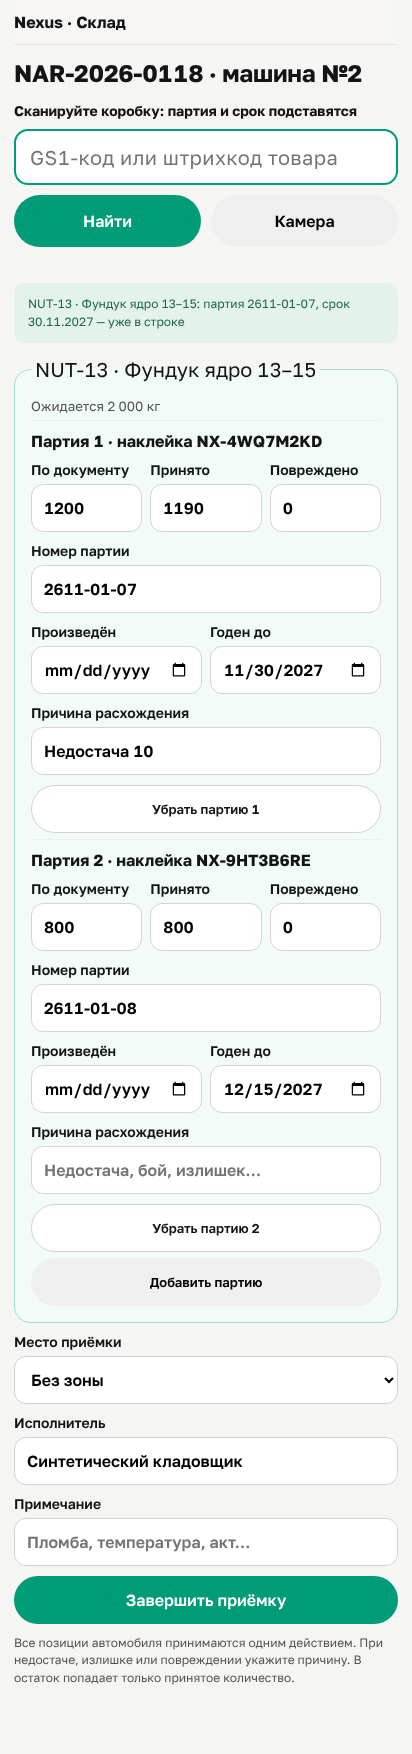
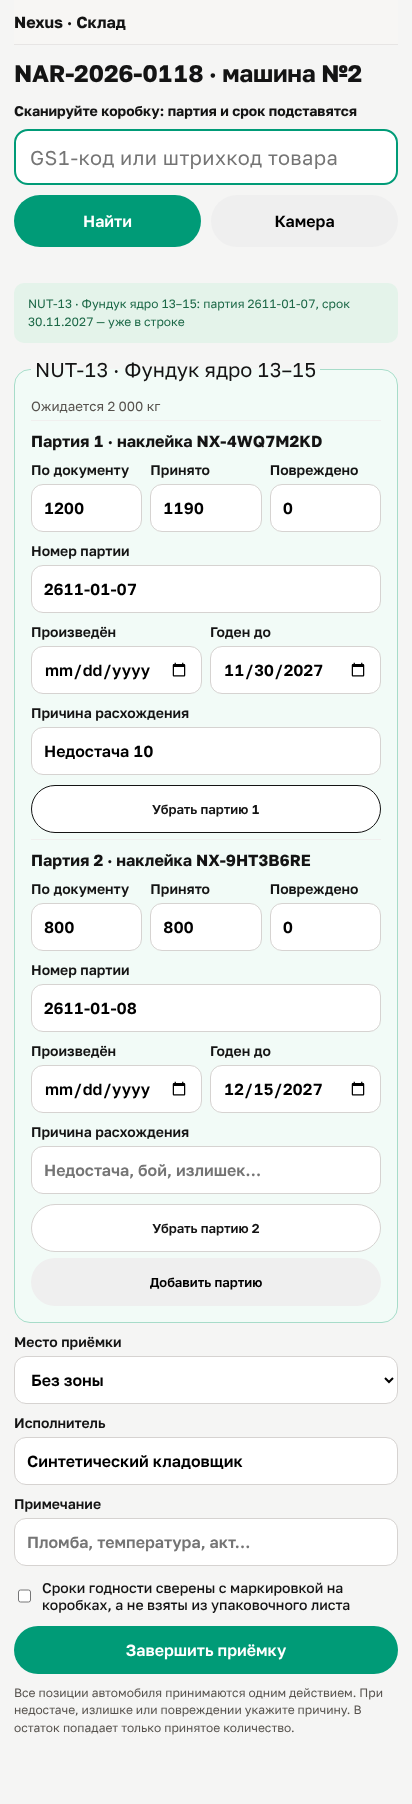
Приёмка с партиями из листа — только с отметкой «Сроки сверены»
Решение владельца от 28.11.2026: срок из упаковочного листа не принимается
не глядя. Машина, у позиций которой есть партии по листу, принимается только
через receive_shipment_transport_checked с отметкой «Сроки годности сверены с
маркировкой на коробках»; без неё — и в обход формы, прежней функцией —
приёмку отклоняет триггер в базе. Кто поставил отметку и когда, записано у
партий листа и видно на странице «Партии и наклейки».

Claude-Session: https://claude.ai/code/session_01EU8RivHSwKM7VpFoboc5U7

diff --git a/src/components/mobile-receive-form.tsx b/src/components/mobile-receive-form.tsx
@@ -117,6 +117,8 @@ export function MobileReceiveForm({ shipmentId, transportId, items, locations, p
         <option key={location.id} value={location.id}>{location.code} · {location.zone}</option>)}</select></label>
       <label>Исполнитель<input name="performed_by_name" defaultValue={performer} required/></label>
       <label>Примечание<input name="notes" placeholder="Пломба, температура, акт…"/></label>
+      {items.some(item => item.batches?.length) && <label className="check-label"><input type="checkbox" name="expiry_checked" required/>
+        Сроки годности сверены с маркировкой на коробках, а не взяты из упаковочного листа</label>}
       <PendingSubmitButton pendingText="Проводим приёмку…" className="primary scan-button" type="submit">Завершить приёмку</PendingSubmitButton>
       <p className="mobile-hint">Все позиции автомобиля принимаются одним действием. При недостаче, излишке или повреждении укажите причину. В остаток попадает только принятое количество.</p>
     </form>

diff --git a/src/app/shipments/[id]/receiving/page.tsx b/src/app/shipments/[id]/receiving/page.tsx
@@ -56,6 +56,7 @@ export default async function ShipmentReceivingPage({params,searchParams}:{
         <label>Зона склада<select name="location_id" defaultValue=""><option value="">Без зоны</option>{locations?.map((location)=><option value={location.id} key={location.id}>{location.code} · {location.zone}</option>)}</select></label>
         <label>Исполнитель<input name="performed_by_name" defaultValue={profile.full_name} required/></label>
         <label className="receiving-notes">Примечание<input name="notes" placeholder="Состояние пломбы, температура, акт…"/></label>
+        {items.some(item=>(expectedBatches.get(item.id)??[]).some(batch=>batch.state==="expected"))&&<label className="check-label receiving-expiry-check"><input type="checkbox" name="expiry_checked" required/> Сроки годности сверены с маркировкой на коробках, а не взяты из упаковочного листа</label>}
         <PendingSubmitButton pendingText="Выполняем…" className="primary" type="submit">Завершить приёмку</PendingSubmitButton>
       </div>
     </form>}

diff --git a/src/app/m/receive/actions.ts b/src/app/m/receive/actions.ts
@@ -21,9 +21,11 @@ export async function receiveTransportMobile(data: FormData) {
   let lines: ReturnType<typeof readReceivingLines> = [];
   try { lines = readReceivingLines(data); } catch (error) { back(error instanceof Error ? error.message : "Проверьте партии приёмки"); }
   const location = text(data, "location_id");
-  const { error } = await supabase.rpc("receive_shipment_transport", {
+  // With batches of the packing list filled in, the database needs the confirmation that the expiries were compared with the boxes.
+  const { error } = await supabase.rpc("receive_shipment_transport_checked", {
     p_transport_id: transportId, p_location_id: uuidPattern.test(location) ? location : null, p_lines: lines,
     p_performed_by_name: text(data, "performed_by_name") || profile.full_name, p_notes: text(data, "notes") || null,
+    p_expiry_checked: text(data, "expiry_checked") === "on",
   });
   if (error) back(ruleViolationMessage(error, "Не удалось провести приёмку автомобиля."));
   revalidatePath(`/shipments/${shipmentId}`); revalidatePath("/shipments"); revalidatePath("/inventory"); revalidatePath("/inventory/movements");

diff --git a/src/app/shipments/actions.ts b/src/app/shipments/actions.ts
@@ -171,12 +171,14 @@ export async function receiveShipmentTransport(formData:FormData){
   if(!transport) redirect(`/shipments/${shipmentId}?error=${encodeURIComponent("Автомобиль не найден в поставке")}`);
   const locationId=uuid(formData,"location_id",false);
   const performedByName=text(formData,"performed_by_name")||profile.full_name;
-  const {error}=await supabase.rpc("receive_shipment_transport",{
+  // With batches of the packing list filled in, the database needs the confirmation that the expiries were compared with the boxes.
+  const {error}=await supabase.rpc("receive_shipment_transport_checked",{
     p_transport_id:transportId,
     p_location_id:locationId,
     p_lines:lines,
     p_performed_by_name:performedByName,
     p_notes:text(formData,"notes")||null,
+    p_expiry_checked:text(formData,"expiry_checked")==="on",
   });
   if(error){
     redirect(`/shipments/${shipmentId}/receiving?transport=${transportId}&error=${encodeURIComponent(ruleViolationMessage(error,"Не удалось провести приёмку автомобиля."))}`);

diff --git a/src/components/shipments/expected-batches-view.tsx b/src/components/shipments/expected-batches-view.tsx
@@ -52,6 +52,7 @@ export function ExpectedBatchesView({ shipment, lots, message, addAction, cancel
             <td>{batch.quantity ? quantity(batch.quantity) : "—"}</td>
             <td>{canPrint ? <input name={`copies_${batch.id}`} form="print-labels" type="number" min={1} max={100} defaultValue={batch.packages ?? 1} aria-label={`Наклеек партии ${batch.batch}`}/> : "—"}</td>
             <td>{expectedStateLabel[batch.state]}{batch.note ? <small>{batch.note}</small> : null}
+              {batch.expiry_checked_by && <small>сроки сверил при приёмке: {batch.expiry_checked_by}</small>}
               {batch.other_expiries.length > 0 && <small className="load-warning-text">Пересорт по сроку: пришла ещё со сроком {batch.other_expiries.map(shortDate).join(", ")} —
                 на эти коробки наклейки из листа не клеить</small>}</td>
             <td>{batch.label_code ?? "—"}{batch.label_code && <small>{batch.printed ? "напечатана" : "не печаталась"}</small>}</td>

diff --git a/src/lib/shipments/expected-batches.ts b/src/lib/shipments/expected-batches.ts
@@ -7,7 +7,7 @@ import type { ExpectedState } from "../scan/lookup.ts";
 export type ExpectedBatch = {
   id: string; batch: string; expiry_date: string | null; manufacture_date: string | null; quantity: string | null; packages: number | null;
   source: "manual" | "packing_list"; source_note: string | null; state: ExpectedState; note: string | null; batch_id: string | null;
-  label_code: string | null; printed: boolean; other_expiries: string[];
+  label_code: string | null; printed: boolean; other_expiries: string[]; expiry_checked_by?: string | null; expiry_checked_at?: string | null;
 };
 export type ExpectedItem = {
   item_id: string; product_id: string; sku: string; product: string; uom: string; quantity: string; transport_id: string | null;

diff --git a/src/app/globals.css b/src/app/globals.css
@@ -603,3 +603,4 @@ a:is([download], [href^="/documents/"][href*="/download"], [href^="/portal/docum
 .mobile-receive-grid input{width:100%;min-width:0}.mobile-recount{padding-top:10px;border-top:1px solid #f0efee}
 .mobile-receive button,.mobile-form>button{min-height:48px}
 .expected-batch-cancelled{opacity:.55}.expected-batches td small{display:block;color:var(--muted)}.expected-batches td input[type=number]{width:72px;padding:4px 8px;border:1px solid #d6d3d1;border-radius:8px;font:inherit}
+.receiving-expiry-check{display:flex;gap:8px;align-items:center;grid-column:1/-1;font-weight:600}

diff --git a/docs/mobile-warehouse.md b/docs/mobile-warehouse.md
@@ -77,6 +77,10 @@
    Каждая печать записывается.
 3. **Приёмка.** В форме приёмки (на телефоне и в полной версии) строки партий по листу уже заполнены: номер, срок,
    количество. Кладовщик проверяет их и правит то, что пришло на самом деле. Скан наклейки на телефоне находит её строку.
+   - **Отметка «Сроки годности сверены с маркировкой на коробках, а не взяты из упаковочного листа» обязательна** (решение
+     владельца от 28.11.2026). Без неё база не примет машину, у позиций которой есть партии по листу, — в том числе
+     в обход формы, через прежнюю функцию приёмки.
+   - Кто поставил отметку и когда, хранится у партий листа и видно на странице «Партии и наклейки».
 4. **Сверка при приёмке.** Наклейка привязывается к принятой партии, только если:
    - это та же позиция поставки;
    - номер партии совпадает (регистр и пробелы по краям не важны);
@@ -111,7 +115,7 @@
   - при отборе — карточка показывает нужный срок и просит сверить его с коробкой.
 - **Чего программа не видит:**
   - на какую паллету физически наклеили наклейку;
-  - сверял ли кладовщик подставленный из листа срок с коробкой.
+  - действительно ли кладовщик сверил срок с коробкой. Он подтверждает это обязательной отметкой, и база записывает, кто её поставил.
 
   Поэтому на наклейке напечатан срок, и перед наклеиванием его сверяют с маркировкой.
 - **Срок, исправленный после приёмки.** Операции, которая переносит часть партии на другой срок, пока нет. Такую часть блокируют (карантин) до исправления.
@@ -183,6 +187,7 @@
 | `shipment_expected_batches(поставка)` | «Поставки: просмотр» | партии по листу у позиций, их наклейки и что сделала приёмка |
 | `add_expected_batch(позиция, номер, срок, производство, количество, наклеек, источник, документ)` | «Остатки: приёмка» или «Поставки: изменение» | партия по листу, пока машина не принята |
 | `cancel_expected_batch(партия, причина)` | те же | отмена ошибочной партии; наклейка становится недействительной |
+| `receive_shipment_transport_checked(…, сроки_сверены)` | права приёмки | приёмка машины с отметкой о сверке сроков; без отметки машина с партиями по листу не принимается |
 
 ## Проверки
 
